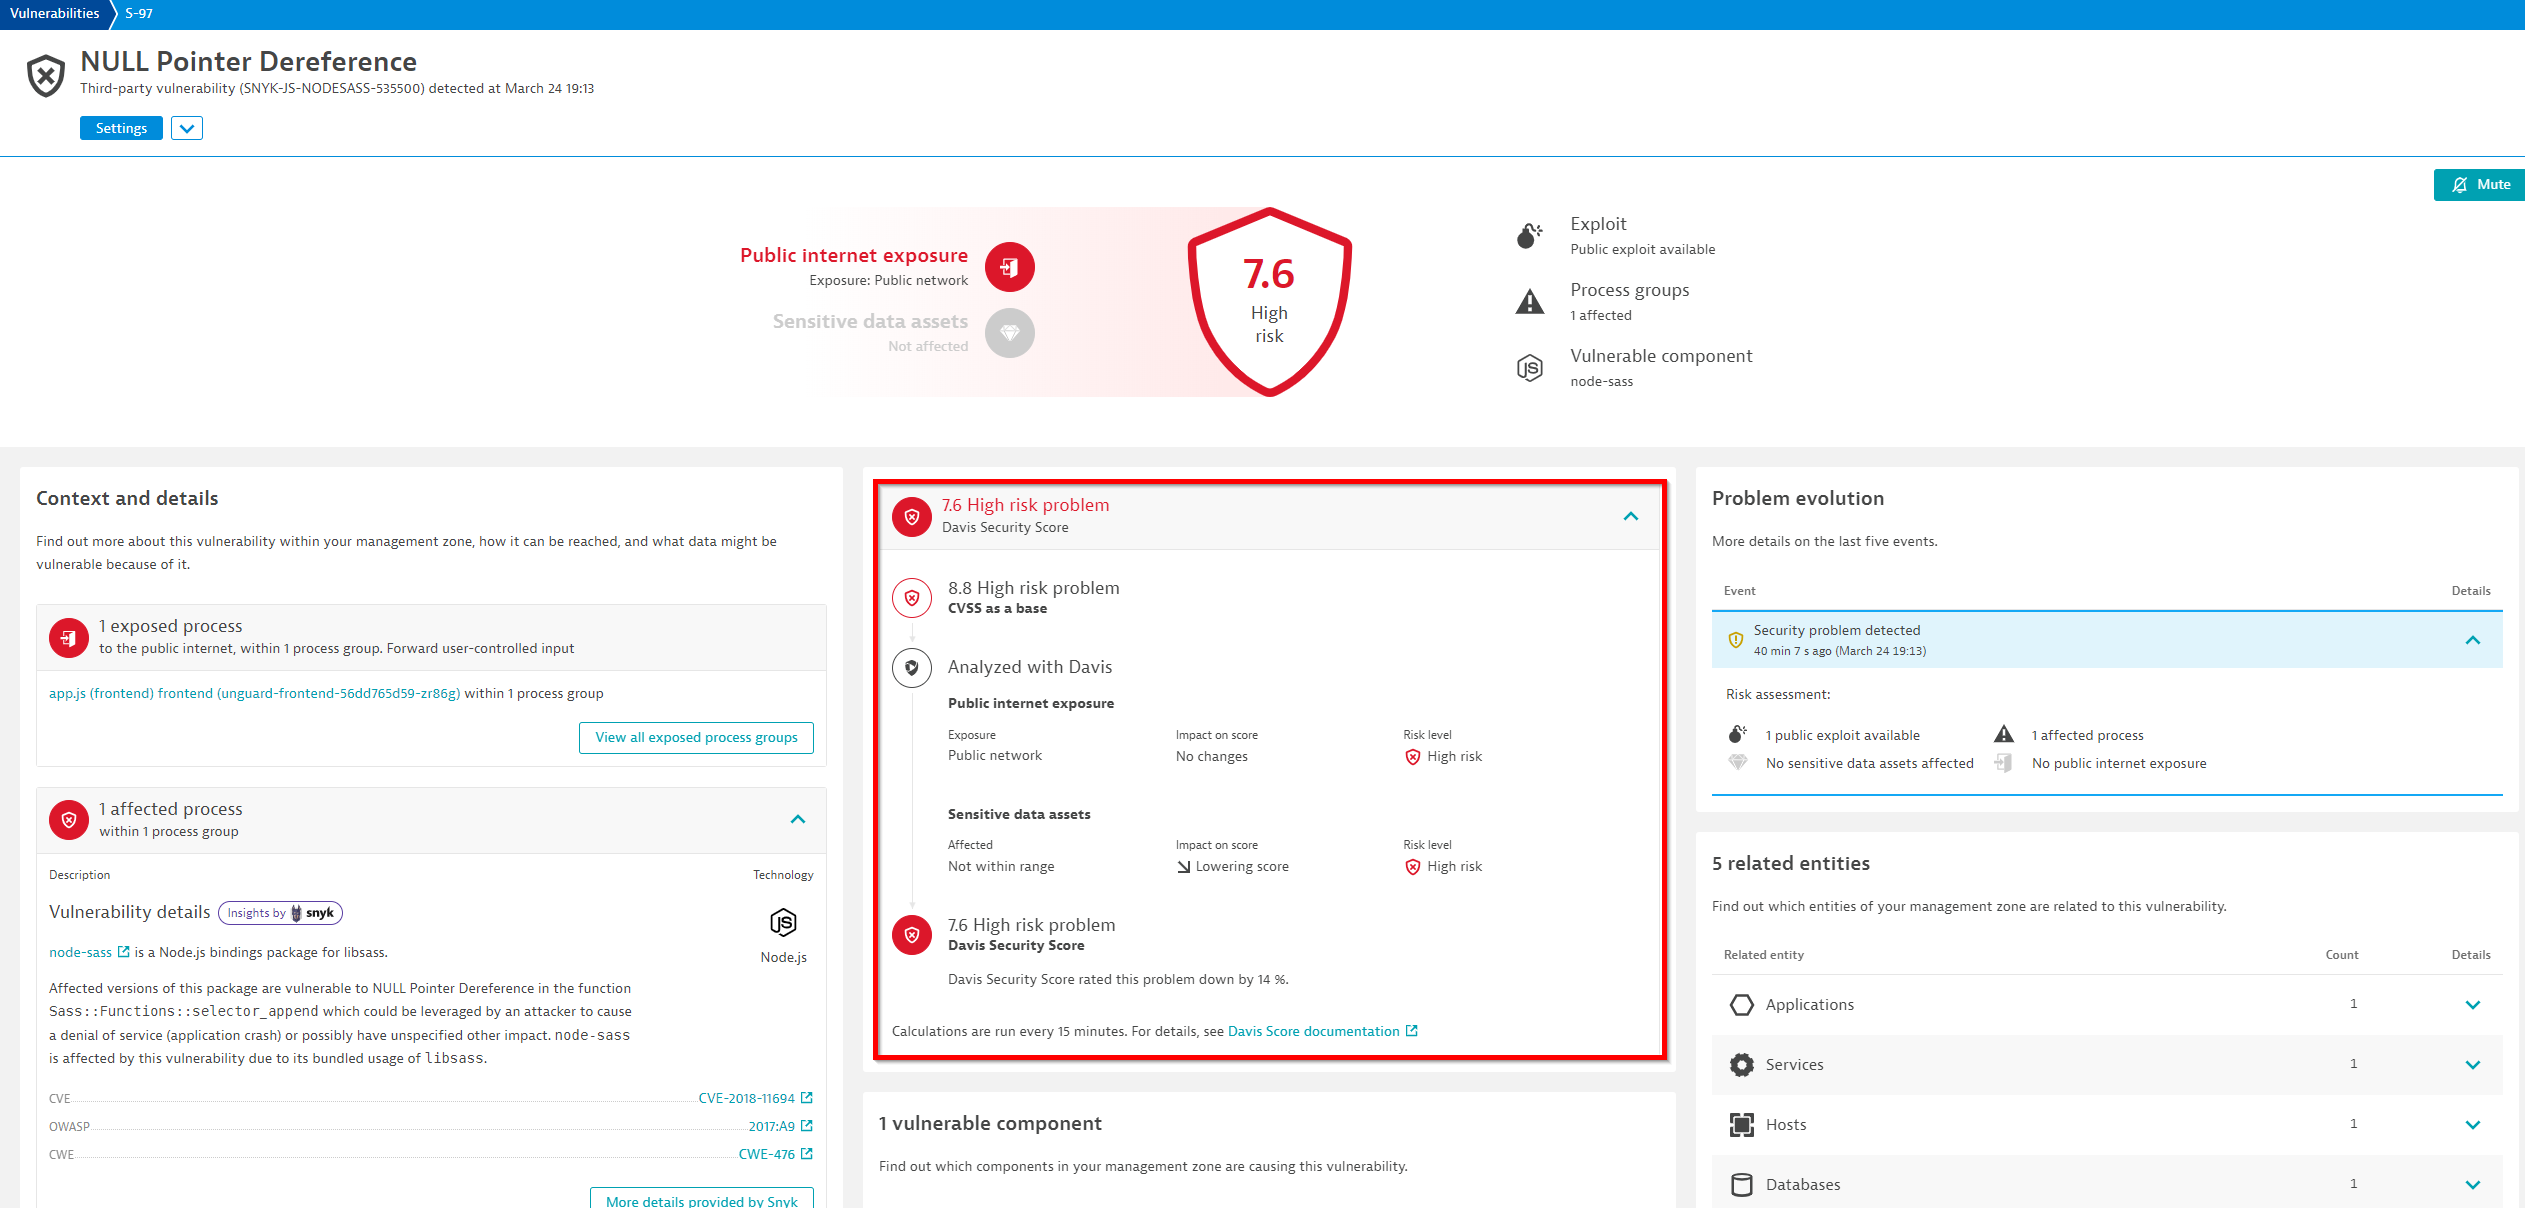
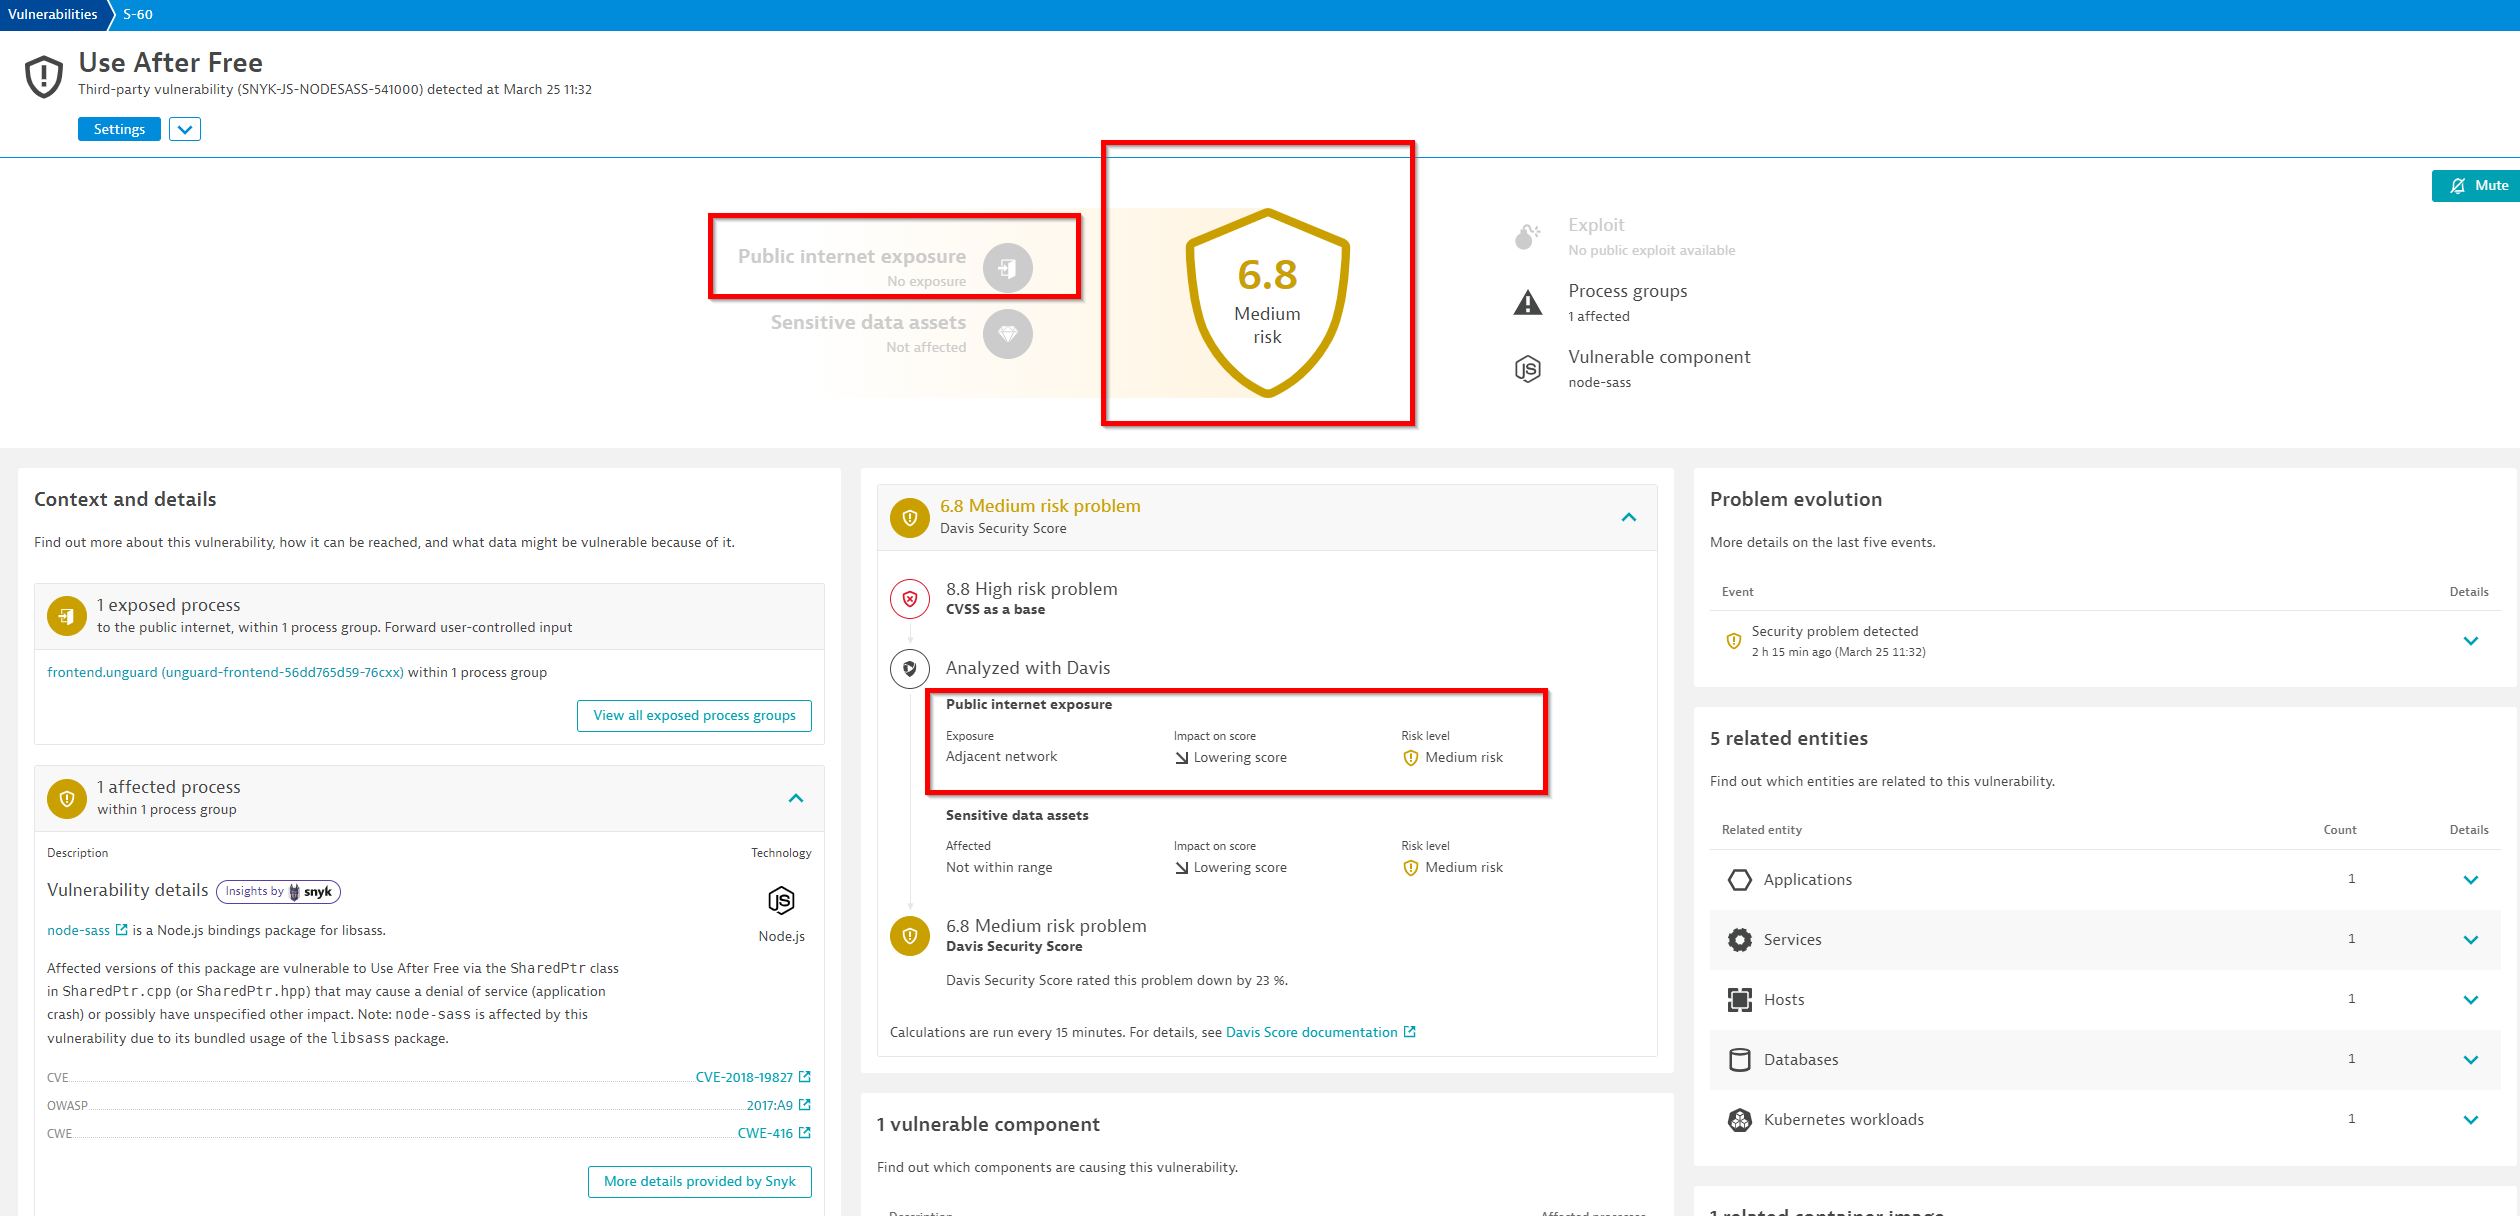
appsec hot labs

diff --git a/user-skel/repos/hot/hot-appsec/lab-guide/content/06-Security Gates/index.md b/user-skel/repos/hot/hot-appsec/lab-guide/content/06-Security Gates/index.md
@@ -30,24 +30,24 @@ Specifically to our app and the vulnerability, two files are important:
 
 - **package.json**:
 
+  In the package.json file, the dependencies of our application are defined. The `@brikcss/merge` dependency with the known vulnerability is always there.
+
 	```json
 	{
-	"name": "SimpleNodeJsService",
-	"version": "0.0.1",
-	"private": true,
-	"dependencies": {
-		"semver": "4.3.0",
-		"@brikcss/merge": "1.3.0"
-	},
-	"scripts": {
-		"start": "node app.js"
-	}
+		"name": "SimpleNodeJsService",
+		"version": "0.0.1",
+		"private": true,
+		"dependencies": {
+			"semver": "4.3.0",
+			"@brikcss/merge": "1.3.0"
+		},
+		"scripts": {
+			"start": "node app.js"
+		}
 	}
 	```
-
-	In the package.json file, the dependencies of our application are defined. The `@brikcss/merge` dependency with the known vulnerability is always there.
-
 - **app.js**: (dedacted to only show the important part)
+	
 	```js
 	...
 	switch(buildNumber) {
@@ -120,5 +120,114 @@ This view can be filtered by the management zone **monaco-mz-staging** that was 
 
 We will see here both the old version (Release version 1.0.0) and the new version (Release version 5.0.0) deployed here.
 
-First, lets click on the **simplenodeservice.staging** entry that corresponds with **Release version 5.0.0** within the Release inventory. This opens the **Release details** screen:
+Click on the **simplenodeservice.staging** entry that corresponds with **Release version 5.0.0** within the Release inventory. This opens the **Release details** screen:
 
+![](../../assets/images/7-release-details.png)
+
+There we can already see that in context of this release, Dynatrace AppSec detected two open Vulnerabilities.
+
+Additionally, we also see an event that shows that our **Evaluation failed**, we will get back to that later.
+
+Click on the number **2** next to **Security vulnerabilties** in the left panel on the screen. This opens the **Vulnerabilties** screen in context of this release:
+
+![](../../assets/images/7-vulnerability-details.png)
+
+We see here that our newly deployed version loads the `@brikcss/merge` library, another library was also present (in both builds) of a lower severity.
+
+You can now click on the Vulnerability to further analyse the impact and also see how we can resolve it.
+
+> Question: what is the CVE for this vulnerability and how can we fix it?
+
+### Step 3 - The Security Gate Explained
+
+Go back to the **Release details** screen and expand the **Evaluation result: fail** event in the right panel on the screen:
+
+![](../../assets/images/7-evaluation-results-event.png)
+
+This event contains a lot of information:
+
+1. The result of the evaluation
+2. The evaluation score
+3. A link back to the CI job (in Jenkins) that triggered the evaluation
+4. A link to the evaluation details (called the **Bridge**)
+
+> Note: links in this screen will become clickable in future releases
+
+For now, copy the link next to the **Keptns Bridge** label and open it in a new tab in your browser. This might trigger a basic authentication login screen. For the credentials, go back to the ACE Dashboard and select the **Keptn** tab where you can copy the username and password:
+
+![](../../assets/images/7-ace-dashboard-keptn-creds.png)
+
+After entering the credentials, the evaluation sequence overview is shown. Here we get a quick overview of past evaluations and can we also click down to the details:
+
+![](../../assets/images/7-bridge-sequence.png)
+
+![](../../assets/images/7-bridge-details.png)
+
+On the details screen we can see all of the **Service Level Indicators** that we have defined along with for each indicator the result (pass/warn/fail) that we get for the **Service Level Objectives**.
+
+Underneath the graph, we can see the details for each indicator along with the values that were found, the aforementioned objectives and the score we get for this indicator.
+
+In our case, what triggered the failure of the build was us looking for **High and Critical Vulnerabilities** and setting an objective of 0 => we did not want those in our service. By marking them as **Key SLIs** we can say that if we find vulnerabilities we will always mark the build as failed, essentially stopping unsecure code from reaching the next stage and production.
+
+At this point you might be wondering where this SLI and SLO definitions are stored and how it is linked to our new build.
+
+For that we have two yaml definition files stored in our **demo/ace repository**:
+
+- cloudautomation/sli_appsec.yaml: (dedacted)
+	
+	```yaml
+	---
+	spec_version: '1.0'
+	indicators:
+	... 
+	app_sec_high:        "SECPV2;securityProblemSelector=riskLevel(HIGH),pgiTags([Environment]DT_RELEASE_BUILD_VERSION:$LABEL.DT_RELEASE_BUILD_VERSION)"
+	app_sec_critical:    "SECPV2;securityProblemSelector=riskLevel(CRITICAL),pgiTags([Environment]DT_RELEASE_BUILD_VERSION:$LABEL.DT_RELEASE_BUILD_VERSION)"
+	app_sec_medium:      "SECPV2;securityProblemSelector=riskLevel(MEDIUM),pgiTags([Environment]DT_RELEASE_BUILD_VERSION:$LABEL.DT_RELEASE_BUILD_VERSION)"
+	app_sec_low:         "SECPV2;securityProblemSelector=riskLevel(LOW),pgiTags([Environment]DT_RELEASE_BUILD_VERSION:$LABEL.DT_RELEASE_BUILD_VERSION)"
+	```
+
+	Here we formulate what information we want to retrieve from Dynatrace. Each line is a different indicator definition, focusing on a different sevirty (`riskLevel(HIGH)`) and targeting a specific **Process Group Instance** (`pgiTags([Environment]DT_RELEASE_BUILD_VERSION:$LABEL.DT_RELEASE_BUILD_VERSION)`) linked to the individual **build** that we have deployed.
+
+- cloudautomation/slo_appsec.yaml: (dedacted)
+
+	```yaml
+	---
+	spec_version: "0.1.1"
+	comparison:
+	aggregate_function: "avg"
+	compare_with: "single_result"
+	include_result_with_score: "pass"
+	number_of_comparison_results: 1
+	filter:
+	objectives:
+	...
+	- sli: "app_sec_high"
+		displayName: "Security Vulnerabilities - High"
+		pass:
+		- criteria:
+		- <=0
+		key_sli: true
+	- sli: "app_sec_critical"
+		displayName: "Security Vulnerabilities - Critical"
+		pass:
+		- criteria:
+		- <=0
+		key_sli: true
+	- sli: "app_sec_medium"
+		displayName: "Security Vulnerabilities - Medium"
+		key_sli: false
+		pass:
+		- criteria:
+		- <=+2
+	- sli: "app_sec_low"
+		displayName: "Security Vulnerabilities - Low"
+		key_sli: false
+		pass:
+		- criteria:
+		- <=+2
+	total_score:
+	pass: "90%"
+	warning: "75%"
+	```
+
+	Here we can specify for each indicator what our desired behaviour (objective) should be. Additionally we set `key_sli: true` to mark indicators that should always produce a pass score.

diff --git a/user-skel/repos/hot/hot-appsec/lab-guide/content/04-Davis Security Score/index.md b/user-skel/repos/hot/hot-appsec/lab-guide/content/04-Davis Security Score/index.md
@@ -1,8 +1,8 @@
-# Davis Security Score
+## Davis Security Score
 
 In this hands on exercise we want to see how internet exposure affects the Davis Security Score in real time. 
 
-## Run the Pipeline
+### Run the Pipeline
 Again, before taking a look of what happens behind the scenes, let's deploy the **unguard base config**, but this time we want to deploy another project to our Dynatrace environment. Open the pipeline **unguard base config**, go on deploy with parameters **build with parameters**, enter `synthetic` in the project section and build the pipeline. 
 
 ![Deploy Unguard](../../assets/images/2-8-unguard-monaco.png)
@@ -14,9 +14,9 @@ Again, before taking a look of what happens behind the scenes, let's deploy the 
 While the pipeline runs, let us take a look at what we just deployed.
 
 
-## Explore Configuration
+### Explore Configuration
 
-### Monaco 
+#### Monaco 
 
 Navigate in Gitea to `monaco/projects`. Under this folder you will find the three sub-projects that were deployed with the Jenkins pipeline just now. 
 
@@ -89,7 +89,7 @@ With these projects we deployed two synthetic tests. Can you find them in the fo
 
             
 ```
-## Jenkin Pipeline
+### Jenkin Pipeline
 
 The Jenkins pipeline is the same as the one from exercise 2. This time we deployed the `synthetic` project, instead of `unguard`.
 
@@ -128,7 +128,7 @@ pipeline {
 
 
 
-## DSS Recap
+### DSS Recap
 Why did we deploy two synthetic tests? We did it to show how the Davis Security Score works. So let's quickly recap what the DSS is.
 
 Davis Security Score (DSS) is an enhanced risk-calculation score based on the industry-standard Common Vulnerability Scoring System. Because Davis AI also considers parameters like public internet exposure and checks to see if and where sensitive data is affected, DSS is the most precise risk-assessment score available.
@@ -142,25 +142,30 @@ Let's go to the next chapter to take a hands on look at the DSS!
 
 
 
-## Simulating Public Exposure
+###Simulating Public Exposure
 
-### Analyze changes in Davis Security Score
+#### Analyze changes in Davis Security Score
 
-he deployed synthetic test we deployed started calling the unguard application. For a vulnerability to have internet exposure, the vulnerable entity has to be called by at least two different non private network. The calls made by the activegate simulate one endpoint in a non private network. So now we also want to simulate the second endpoint. Before we do so, lets take at the current state of our vulnerabilities.
+The deployed synthetic test we deployed started calling the unguard application. For a vulnerability to have internet exposure, the vulnerable entity has to be called by at least two different non private network. The calls made by the activegate simulate one endpoint in a non private network. So now we also want to simulate the second endpoint. Before we do so, lets take at the current state of our vulnerabilities.
 
 Navigate to `Vulnerabilities` and filter for `Risk assessment: Public Internet Exposure`. As you see, no entities are publicly exposed.
 
 ![No internet exposure](../../assets/images/4-4-no-internet-exposure.png)
 
-Before we go on, search for the vulnerability with CVE ID: `xxxxxxx`, open the vulnerability and see how the DSS has been lowered due to missing internet exposure.
+Before we go on, search for the vulnerability with CVE ID: `CVE-2018-19827`, open the vulnerability and see how the DSS has been lowered due to missing internet exposure.
 
--add image
+![No internet exposure](../../assets/images/4-3-DSS-increase.png)
 
 Now, to simulate internet exposure, open `http://unguard.[<your_VM__IP_adress>].info/ui/` yourself and generate some traffic .
 Once you have done that, navigate back to `Vulnerabilities` and filter for `Risk assessment: Public Internet Exposure`. 
 
 You will now see the vulnerabilities that evolved to publicly exposed vulnerabilities due to the synthetic activegate as well as your traffic.
 
-![No internet exposure](../../assets/images/4-5-internet-exposure.png)
+![internet exposure](../../assets/images/4-5-internet-exposure.png)
+
+We can also check for our vulnerability with CVE ID: `CVE-2018-19827`. You will find that the DSS score increase.
+
+![No internet exposure](../../assets/images/4-6-DSS-exposure.png).
+
 
 

diff --git a/user-skel/repos/hot/hot-appsec/lab-guide/content/03-Get Familiar With AppSec/index.md b/user-skel/repos/hot/hot-appsec/lab-guide/content/03-Get Familiar With AppSec/index.md
@@ -1,13 +1,13 @@
 ## Getting Familiar with AppSec
 ### Security Overview
 
-Navigate to `Application Security > Security Overview`
+Navigate to `Application Security` > `Security Overview`
 
 ![security overview](../../assets/images/2-1-security-overview.png)
 
-Explore what is displayed ont he screen:
-- How many vulnerabilities were discovered?
-- How many of each category?
+Explore what is displayed ont the screen:
+1. How many vulnerabilities were discovered?
+2. How many of each category?
 
 > Since we just activated it, the evolution over the past 30 days doesn't show much. 
 
@@ -20,29 +20,31 @@ On this screen you can see a list of all vulnerabilities that were discovered in
 
 Take a look at the list, try out the different filters, take a look at the findings from the Davis Security Advisor.
 
-- How many vulnerabilities are affecting Kubernetes?
-- Which library has the most critical vulnerabilities and should be updated with priority?
-- A new critical vulnerability was discovered in Janaury *CVE-2022-23221* is this environment affected by it?
+**Exercise**
+1. How many vulnerabilities are affecting Kubernetes?
+2. Which library has the most critical vulnerabilities and should be updated with priority?
+3. This environment affected by the vulnerability with CVE ID 'CVE-2021-23555`. Find it an open it. 
 
-Click on the vulnerability with the highest score (first in the list).
 
 ### Vulnerability details
 
-(***Here we should take a specific vulnerability where the score increases after we enable the synthetics***)
 
 Here you can find all the details about the selected vulnerabilty
 
 ![vulnerability details](../../assets/images/2-3-vulnerability-details.png)
 
-On the left side under *Context and details* you can see which processes are affected and get more details about the vulnerability. Using the links you can navigate to NVD, CWE, OWASP or Snyk to read more about it. Click on the *More details provided by Snyk* button to get more details. 
+On the left side under `Context and details` you can see which processes are affected and get more details about the vulnerability. Using the links you can navigate to NVD, CWE, OWASP or Snyk to read more about it. 
 
-With *View all process groups* you get to the Remediation Tracking screen, that shows details about the affected process groups. 
+**Exercise**
+1. With the information in the `Context and details`, find out how to remediate the vulnerability.
 
-At the bottom you can see the related entities and container images (if it is a containerized process)
+With `View all process groups` you get to the Remediation Tracking screen, that shows details about the affected process groups. 
+
+At the bottom you can see the related entities and container images. You can see these information, because our monaco pipeline added the Kubernetes credentials needed to integrate Dynatrace with the Kubernetes API.
 
 ![vulnerability details 2](../../assets/images/2-3-vulnerability-details2.png)
 
-- What is the version of the affected library
-- To which version do you need to upgrade to resolve the vulnerability?
-- On which hosts are the affected processes running?
-- Under which namespace are the pods deployed in Kubernetes?
+**Exercise**
+1. What is the version of the affected library?
+3. On which hosts are the affected processes running?
+4. Under which namespace are the vulnerable pods deployed in Kubernetes?

diff --git a/user-skel/repos/hot/hot-appsec/lab-guide/content/02-Deploy Unguard/index.md b/user-skel/repos/hot/hot-appsec/lab-guide/content/02-Deploy Unguard/index.md
@@ -215,6 +215,10 @@ If you navigate to the `Dashboard` menu, you will also find the `Application Sec
 
 ![unguard](../../assets/images/2-11-dashboard.png)
 
+Navigate to the `Kubernetes` menu. You will find the `ACE-BOX` cluster in which the `unguard` application is running. If you click on the cluster name, you will find an overview of the Kubernetes integration with Dynatrace. The monaco pipeline triggered by Jenkins added the necessary credentials to import additional Kubernetes information from Kubernetes (e.g. namspaces, deployments, labels, requests...). This will become important in the next exercise.
+
+![unguard](../../assets/images/2-12-kubernetes.png)
+
 ### Deploy a second app: the SimpleNodeService
 As part of a future lab, we also need to deploy another app. 
 To deploy this app, go back to the dashboard of Jenkins, and navigate to the `demo-appsec` folder.
